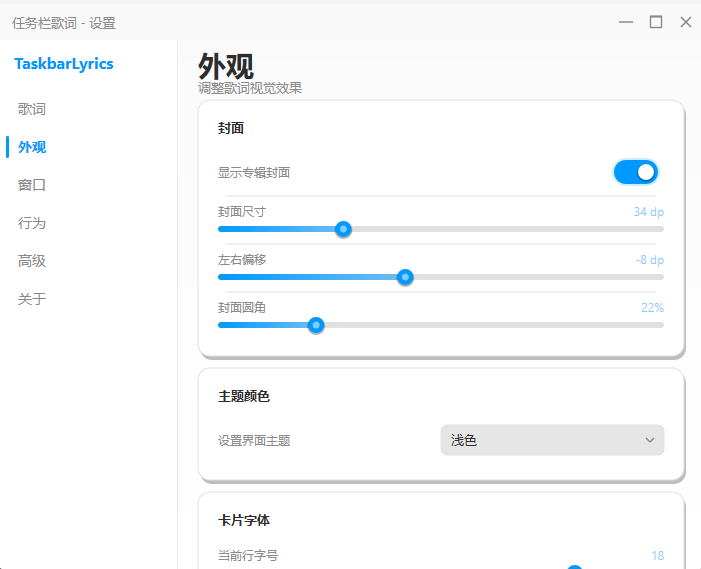
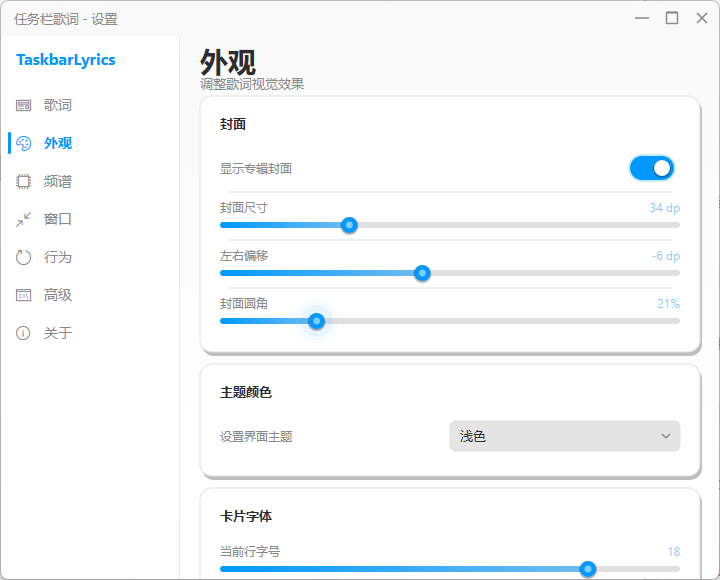
v1.0.6-Beta

diff --git a/Docs/MoeKoeMusic_TaskbarLyrics_开发文档.md b/Docs/MoeKoeMusic_TaskbarLyrics_开发文档.md
@@ -1,5 +1,5 @@
 # MoeKoeMusic 任务栏歌词插件 — 开发文档
-> **版本：** v1.0.5 | **语言：** C++17 | **平台：** Windows 10/11 (x64) | **协议：** GPL-3.0
+> **版本：** v1.0.6 Beta | **语言：** C++17 | **平台：** Windows 10/11 (x64 / ARM64) | **协议：** GPL-3.0
 
 ***
 
@@ -26,7 +26,7 @@ MoeKoeMusic 是 Electron + Vue 3 开源音乐播放器，**缺少任务栏歌词
 
 ### 1.4 项目结构
 
-源码按功能拆分为 8 个模块子目录（共 64 个源文件）：
+源码按功能拆分为 9 个模块子目录：
 
 ```
 MoeKoeMusic-TaskbarLyrics/
@@ -39,6 +39,8 @@ MoeKoeMusic-TaskbarLyrics/
 │   │   ├── crash_handler.h/cpp#   全局异常过滤器 + 崩溃日志
 │   │   ├── message_window.h/cpp # 隐式消息窗口（托盘/帧定时）
 │   │   └── constants.h        #   全局常量（端口/尺寸/消息号/频谱）
+│   ├── launcher/              # 架构感知启动器 (1)
+│   │   └── launcher.cpp       #   固定 x64 编译，检测系统原生架构后拉起 x64/ 或 arm64/ 主程序
 │   ├── lyrics/                # 歌词数据与解析 (6)
 │   │   ├── lyrics_data.h      #   LyricLine/PlayerState/RenderState 结构
 │   │   ├── lyrics_parser.h/cpp#   LRC/KRC 解析 + 二分查找当前行
@@ -80,14 +82,16 @@ MoeKoeMusic-TaskbarLyrics/
 │       ├── environment_check.h/cpp # 系统环境检查（最低 Build 19041）
 │       ├── compat_mode.h/cpp  #   安全模式/兼容标志
 │       └── diagnostic_exporter.h/cpp # 诊断报告导出
-├── moeKoe-taskbar-lyrics/     # Chrome Extension（manifest/background/native-bridge/icons）
-├── scripts/pack_zip.py        # 发布打包脚本
+├── moeKoe-taskbar-lyrics/     # Chrome Extension + 双架构产物目录（manifest/background/native-bridge/icons；构建后含根 Launcher + x64/ + arm64/）
+├── scripts/                   # 发布辅助脚本
+│   ├── pack_zip.py            #   目录全量打包为 zip（单包双架构混合包）
+│   └── verify_package.py      #   PE 架构 + 双架构目录结构校验
 ├── tests/                     # Catch2 单元测试
 │   ├── test_lyrics_parser.cpp
 │   └── test_krc_parser.cpp
 ├── third_party/               # 内置第三方库（httplib / concurrentqueue / ixwebsocket 源码）
-├── CMakeLists.txt             # v1.0.5（手动配置 vcpkg，绕过 toolchain）
-├── CMakePresets.json          # VS2022 x64-Debug/x64-Release
+├── CMakeLists.txt             # v1.0.6 Beta（手动配置 vcpkg，绕过 toolchain；架构 triplet 强绑定）
+├── CMakePresets.json          # VS2022 x64/ARM64 × Debug/Release 四个 preset（MSVC 14.44）
 ├── vcpkg.json                 # 依赖声明（ixwebsocket/nlohmann-json/zlib/mbedtls/kissfft）
 └── public/icons/icon256.png   # 插件中心图标
 ```
@@ -491,6 +495,17 @@ struct RenderState {
 - 统一封装 D2D 画刷创建、文本布局、WIC 位图加载/缩放/模糊等底层操作
 - 供主渲染器、卡片渲染、频谱绘制共用，避免重复代码
 
+### 3.17 架构感知启动器（v1.0.6 Beta）
+
+**文件：** `src/launcher/launcher.cpp`
+
+- **定位：** 发布包根目录的 `MoeKoeTaskbarLyrics.exe` 为启动器（Launcher），真正的插件主程序按架构放在 `x64/` 与 `arm64/` 子目录
+- **固定 x64 编译：** 启动器始终以 x64 目标编译（静态链接 CRT，自包含）；ARM64 Windows 内置 x64 仿真层可运行 x64 程序，因此同一入口在两种架构设备上都可用
+- **架构路由：** 启动时检测系统原生架构，原生 ARM64 → 拉起 `arm64/` 主程序，否则 → 拉起 `x64/` 主程序；检测优先 `IsWow64Process2`（其 `nativeMachine` 输出即宿主真实架构），失败回退 `GetNativeSystemInfo`
+- **禁用进程环境 API（关键）：** Launcher 固定 x64，在 ARM64 Windows 上经 x64 仿真层运行，因此判断系统架构**必须**用 `IsWow64Process2` 的 `nativeMachine` 或 `GetNativeSystemInfo` 这类返回宿主原生架构的 API；**严禁**用 `GetSystemInfo`、`PROCESSOR_ARCHITECTURE` 环境变量等反映「当前进程环境」的 API——它们在仿真环境下会误报 x64，导致 ARM64 设备被错误地拉起 x64 子程序
+- **无降级 fallback：** ARM64 设备上找不到 `arm64/` 目录时直接失败并提示，而非偷偷启动 x64 模拟版，避免用户误判运行架构
+- **打包约束：** 因主程序按架构拆分，发布包校验（`verify_package.py`）要求根目录 Launcher、`x64/`、`arm64/` 三者必须同时存在
+
 ***
 
 ## 4. 协议与接口
@@ -561,6 +576,7 @@ struct RenderState {
 | ------------- | ----------- |
 | Windows SDK   | 10.0.20348+ |
 | Visual Studio | 2022 (v143) |
+| MSVC 工具集     | 14.44+（构建 ARM64 需安装 ARM64 工具链） |
 | CMake         | 3.20+       |
 | vcpkg         | 最新版（manifest 模式） |
 
@@ -569,20 +585,22 @@ struct RenderState {
 ### 5.2 构建命令
 
 ```bash
-# 1. 安装依赖（vcpkg manifest 模式，按 vcpkg.json 自动解析）
-vcpkg install
+# 1. 安装依赖（vcpkg manifest 模式，按目标架构 triplet 安装）
+vcpkg install --triplet x64-windows
+vcpkg install --triplet arm64-windows     # 构建 ARM64 时
 
-# 2. 配置（CMakeLists 已内联处理 vcpkg 路径，绕过 toolchain；也可用 CMakePresets）
-cmake --preset x64-Release       # 或: cmake -B build -S .
-# 若 vcpkg 路径不同，需在 CMakeLists 的 VCPKG_ROOT 处调整
+# 2. 配置 + 构建（x64；显式传入对应 triplet 的 VCPKG_INSTALLED_DIR，
+#    保证第三方库与目标架构同一 triplet，禁止跨 triplet fallback）
+cmake --preset x64-Release -DVCPKG_INSTALLED_DIR="D:\vcpkg\installed\x64-windows"
+cmake --build --preset x64-Release
+# 配置 + 构建（ARM64）
+cmake --preset ARM64-Release -DVCPKG_INSTALLED_DIR="D:\vcpkg\installed\arm64-windows"
+cmake --build --preset ARM64-Release
 
-# 3. 构建
-cmake --build build --config Release
+# 3. 单元测试（Catch2）
+ctest --test-dir out/build/x64-Release -C Release
 
-# 4. 单元测试（Catch2）
-ctest --test-dir build -C Release
-
-# 产物: build/Release/MoeKoeTaskbarLyrics.exe（含 Release 依赖 DLL 复制）
+# 产物: 各架构主程序 + 根目录 Launcher（详见 5.4；也可用 build.cmd release all 一键产出完整发布目录）
 ```
 
 > **说明：** `CMakeLists.txt` 手动配置 vcpkg 依赖路径（不再依赖 `-DCMAKE_TOOLCHAIN_FILE`）；依赖优先走 vcpkg 安装，缺失时 `ixwebsocket` 自动回退为 `third_party` 内置源码编译。
@@ -603,8 +621,13 @@ ctest --test-dir build -C Release
 ### 5.4 发布打包
 
 ```bash
-python scripts/pack_zip.py moeKoe-taskbar-lyrics/ moeKoe-taskbar-lyrics.zip
-# 内部结构: moeKoe-taskbar-lyrics/{manifest.json, *.js, *.html, icons/, *.exe}
+# 架构校验（双架构目录结构 + 各 PE 文件架构，任一不符合即非零退出）
+python scripts/verify_package.py moeKoe-taskbar-lyrics/
+# 打包（pack_zip.py 按目录全量打包；目录内同时含根 Launcher + x64/ + arm64/ 即为单包双架构混合包，只需打一个 zip）
+python scripts/pack_zip.py moeKoe-taskbar-lyrics/ moeKoe-taskbar-lyrics-windows-x64-arm64.zip
+# 内部结构: moeKoe-taskbar-lyrics/{manifest.json, *.js, *.html, icons/,
+#           MoeKoeTaskbarLyrics.exe(Launcher, x64), x64/**, arm64/**}
+# 根启动器固定 x64 编译（静态链接 CRT 自包含），ARM64 Windows 经内置 x64 仿真层运行后拉起 arm64 原生主程序
 ```
 
 ### 5.5 卸载
@@ -649,6 +672,7 @@ python scripts/pack_zip.py moeKoe-taskbar-lyrics/ moeKoe-taskbar-lyrics.zip
 
 | 功能      | 难度 | 优先级 | 状态      |
 | ------- | -- | --- | ------- |
+| ARM64 实机验证 | 中  | ⭐⭐⭐ | 🔜 发布测试阶段（v1.0.6 Beta） |
 | 绑定模式接入  | 低  | ⭐⭐  | ✅ 已实现（v1.0.3） |
 | 绑定模式增强  | 中  | ⭐⭐  | 🔜 待评估（进程生命周期联动优化） |
 | 支持其他播放器 | 高  | ⭐   | ❌ 新立项   |

diff --git a/README.md b/README.md
@@ -51,7 +51,7 @@
 
 > 如果您在使用过程中遇到问题，可以先查看[常见问题自查](Docs/常见问题自查.md)，如果问题仍然存在，请提交 issue。
 >
-> 本项目暂不支持32位系统。支持 Windows x64；Windows on ARM64（原生 ARM64）正在适配中——源码与构建配置已加入 ARM64 支持，尚待 ARM64 实机验证。如果你需要在其他架构上使用，可自行修改配置然后构建。
+> 本项目支持 Windows x64；Windows on ARM64（原生 ARM64）当前处于「发布测试」阶段。目前已发布x64/ARM64混合测试版，程序运行后会自动检测系统架构并选择对应的二进制运行。欢迎反馈。
 
 #### 本插件会自动开启 MoeKoeMusic 的API模式，但您需要重启MoeKoeMusic才会生效
 
@@ -121,14 +121,12 @@ cmake --build --preset ARM64-Release
 # 架构校验（逐文件检查根/Launcher、x64/*、arm64/* 的 PE Machine 字段）
 python scripts\verify_package.py moeKoe-taskbar-lyrics\
 
-# 打包发布（zip 内根目录固定为 moeKoe-taskbar-lyrics/，文件名可带架构后缀区分）
-python scripts\pack_zip.py moeKoe-taskbar-lyrics\ moeKoe-taskbar-lyrics-x64.zip
-python scripts\pack_zip.py moeKoe-taskbar-lyrics\ moeKoe-taskbar-lyrics-arm64.zip
+# 打包发布（pack_zip.py 按目录全量打包，根目录下同时含 x64/ 与 arm64/
+# 即为双架构混合包，只需打一个 zip；根启动器 Launcher 由 x64 构建生成）
+python scripts\pack_zip.py moeKoe-taskbar-lyrics\ moeKoe-taskbar-lyrics-windows-x64-arm64.zip
 ```
 
 > **注意**：由于 ixwebsocket 预编译库使用 MSVC 14.44 编译，项目需要使用相同版本工具集。`CMakePresets.json` 已配置自动传递 `/p:PlatformToolsetVersion=14.44.35207`。
->
-> **ARM64 提示**：本项目为原生 ARM64（非 ARM64EC），当前处于「正在适配 / 待实机验证」阶段。`kissfft-float.dll` 等依赖库需使用 arm64-windows triplet 重新编译；CI（build.yml / release.yml）已配置 ARM64 matrix 自动构建 x64 与 arm64 双架构产物，但 ARM64 产物尚未在真实 ARM64 Windows 设备上完成验证。
 
 ***
 
@@ -151,6 +149,7 @@ python scripts\pack_zip.py moeKoe-taskbar-lyrics\ moeKoe-taskbar-lyrics-arm64.zi
 - [项目状态文档.md](Docs/项目状态文档.md)
 - [版本更新日志.md](Docs/版本更新日志.md)
 - [常见问题自查.md](Docs/常见问题自查.md)
+- [高DPI测试矩阵.md](Docs/高DPI测试矩阵.md)
 - [计划书.md](Docs/计划书.md)
 
 ## 许可证

diff --git a/Docs/项目状态文档.md b/Docs/项目状态文档.md
@@ -1,7 +1,7 @@
 # MoeKoeMusic 任务栏歌词插件 — 项目当前状态
 
-> **版本：** v1.0.5
-> **更新日期：** 2026-08-18（文档同步）
+> **版本：** v1.0.6 Beta
+> **更新日期：** 2026-08-29（文档同步）
 
 ***
 
@@ -303,6 +303,10 @@
 | 日志轮转                  | 5 级日志 + 5MB 自动轮转归档（v1.0.5）      |
 | 鉴权 Token 注册表化        | Token 由注册表 UUID 动态提供，不再硬编码（v1.0.5） |
 | 系统环境检查与诊断导出      | 环境版本校验 + 一键诊断报告导出，便于 Issue 定位（v1.0.5） |
+| Windows ARM64 原生支持 | 单包双架构：安装包内嵌 x64 + ARM64 两套原生程序，自动检测系统架构并拉起对应二进制（v1.0.6 Beta） |
+| 架构感知启动器          | 根目录 Launcher 固定 x64 编译，ARM64 Windows 经内置 x64 仿真层运行后拉起 arm64 原生主程序（v1.0.6 Beta） |
+| 发布包架构自检          | verify_package.py 强制校验双架构目录结构与各 PE 文件架构，阻断错误架构产物发布（v1.0.6 Beta） |
+| CI 双架构构建与单包发布   | GitHub Actions 并行构建 x64/ARM64 后合并为单包双架构 zip；新增 workflow_dispatch 手动触发（v1.0.6 Beta） |
 
 ***
 
@@ -331,6 +335,8 @@
 | 系统标题栏颜色不跟随主题         | DWM API 设置 DWMWA\_USE\_IMMERSIVE\_DARK\_MODE |
 | 遮挡恢复时闪现经典 Windows 边框 | WM\_NCACTIVATE + DwmExtendFrameIntoClientArea |
 | 歌词窗口宽度被压缩到 100px（Issue #20） | 任务列表/托盘矩形重叠校验 + 手动宽度设置（详见 6.1） |
+| ARM64 设备插件无法启动（v1.0.6 Beta） | 补全 arm64 构建缺失的 VC++ 运行库（CRT），清理误混入 arm64 包的 x64 版 vcruntime140_1.dll |
+| 发布流程 CRT 静默缺失（v1.0.6 Beta） | 构建/发布阶段多级兜底定位 VC++ 运行库（VCToolsRedistDir→多版本探测→仓库内嵌 ARM64 CRT），定位失败显式报错阻断发布 |
 
 ### 6.1 窗口宽度异常（Issue #20）根因分析
 
@@ -359,4 +365,5 @@
 2. **支持其他播放器** — 扩展协议支持更多播放器（将在新项目中完成）
 3. **绑定模式增强** — 进程生命周期联动优化，待评估
 4. **颜色提取到常量** — 部分 UI 颜色值仍散落于绘制代码，待集中至常量表
+5. **ARM64 实机验证** — 单包双架构构建链路已闭环，Windows on ARM64 实机运行验证处于「发布测试」阶段（详见 README 使用说明）
 

diff --git a/Docs/常见问题自查.md b/Docs/常见问题自查.md
@@ -36,12 +36,16 @@
 
 **解决方法**：
 
-- 确认插件目录包含以下文件：
+- v1.0.6 Beta 起为单包双架构，先确认插件目录结构完整：
+  - 根目录 `MoeKoeTaskbarLyrics.exe`（架构感知启动器，固定 x64）
+  - `x64/` 子目录（x64 原生程序 + 运行库）
+  - `arm64/` 子目录（ARM64 原生程序 + 运行库）
+- 每个架构子目录内应包含以下运行库：
   - `z.dll` (zlib，必须)
   - `kissfft-float.dll` (频谱分析，必须)
-  - msvcp140.dll（Visual C++ 2015-2022 Redistributable，非必须）
-  - vcruntime140.dll（Visual C++ 2015-2022 Redistributable，非必须）
-  - vcruntime140\_1.dll（Visual C++ 2015-2022 Redistributable，非必须）
+  - msvcp140.dll（Visual C++ 2015-2022 Redistributable）
+  - vcruntime140.dll（Visual C++ 2015-2022 Redistributable）
+  - vcruntime140\_1.dll（仅 `x64/`，ARM64 原生程序不链接此文件）
 - 从 [Releases](https://github.com/Yngu196/TaskbarLyrics/releases) 重新下载完整包
 
 ### Q: 开机自启动没有生效？
@@ -215,6 +219,16 @@
 ***
 
 ## 系统兼容性
+
+### Q: Windows on ARM64（ARM64 设备）上能否运行？
+
+**原因**：早期版本仅支持 x64。
+
+**解决方法**：
+
+- v1.0.6 Beta 起支持 Windows on ARM64 原生运行，无需经 x64 模拟
+- 插件包内同时包含 x64 / ARM64 两套原生程序，启动时自动检测系统架构并运行对应二进制
+- 当前处于「发布测试」阶段，如遇问题请提交 Issue 并附上系统版本、设备型号和 `debug.log`
 
 ### Q: Windows 11 上歌词显示异常？
 

diff --git a/Docs/版本更新日志.md b/Docs/版本更新日志.md
@@ -1,3 +1,21 @@
+## v1.0.6 Beta 变更
+
+### 新增
+
+- **Windows ARM64 原生支持（单包双架构）** — 插件安装包同时内置 x64 与 ARM64 两套原生程序，在 Windows on ARM（ARM64）设备上可直接原生运行，无需经过 x64 模拟；安装同一插件包即可在两种架构的设备上使用
+- **架构感知启动器** — 新增智能启动器，启动时自动检测系统原生架构（x64 / ARM64）并拉起对应架构的插件主程序，全程无需手动选择或配置
+
+### 修复
+
+- **修复 ARM64 设备上插件无法启动的问题** — 补齐 arm64 构建缺失的 VC++ 运行库（CRT），并清理误混入 arm64 包的 x64 版 `vcruntime140_1.dll`，解决架构不匹配导致的启动失败
+- **修复发布流程 CRT 静默缺失** — 构建 / 发布阶段自动定位 VC++ 运行库（多级兜底：VCToolsRedistDir → 多版本探测 → 仓库内置官方 ARM64 CRT），定位失败时显式报错，避免产物缺库带病发布
+
+### 优化
+
+- **CI 双架构构建与单包发布** — GitHub Actions 并行构建 x64 / ARM64 两个架构并合并为单包发布，一次构建产出完整的双架构安装包
+- **发布包架构自检** — 新增发布前置校验（verify_package.py），强制检查包内双架构目录结构及各 PE 文件架构，杜绝错误架构产物流出
+- **支持手动触发构建** — 新增 workflow_dispatch，可随时手动触发 CI，可按需构建 x64 / ARM64 或双架构安装包
+
 ## v1.0.5 变更
 
 ### 新增
